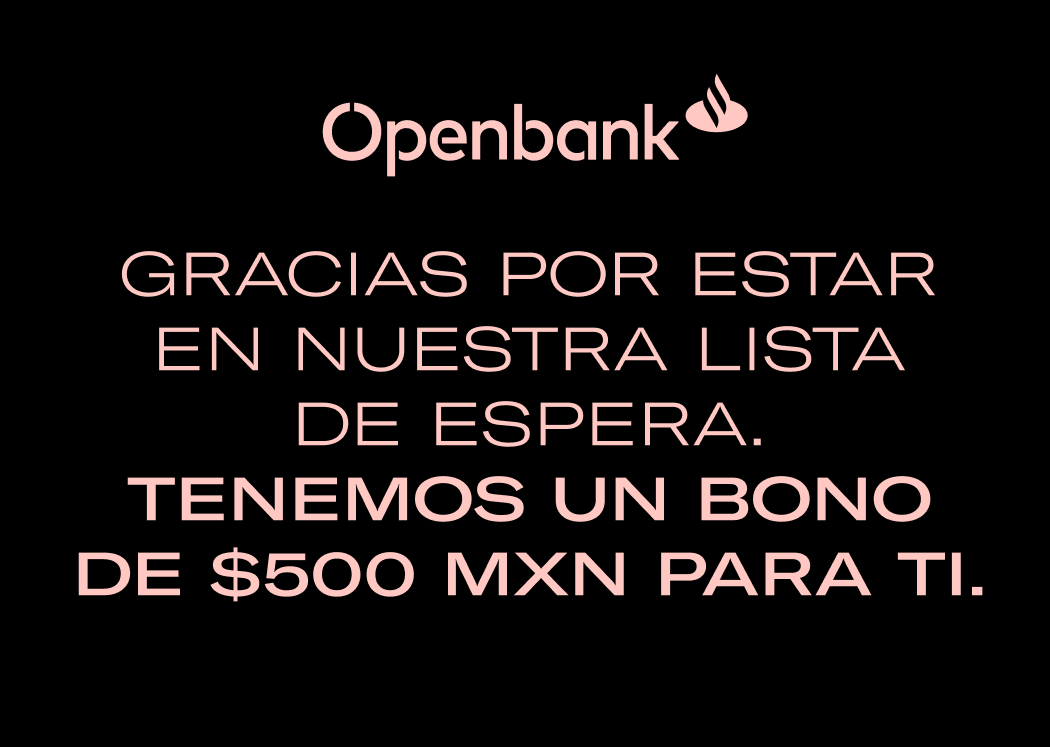
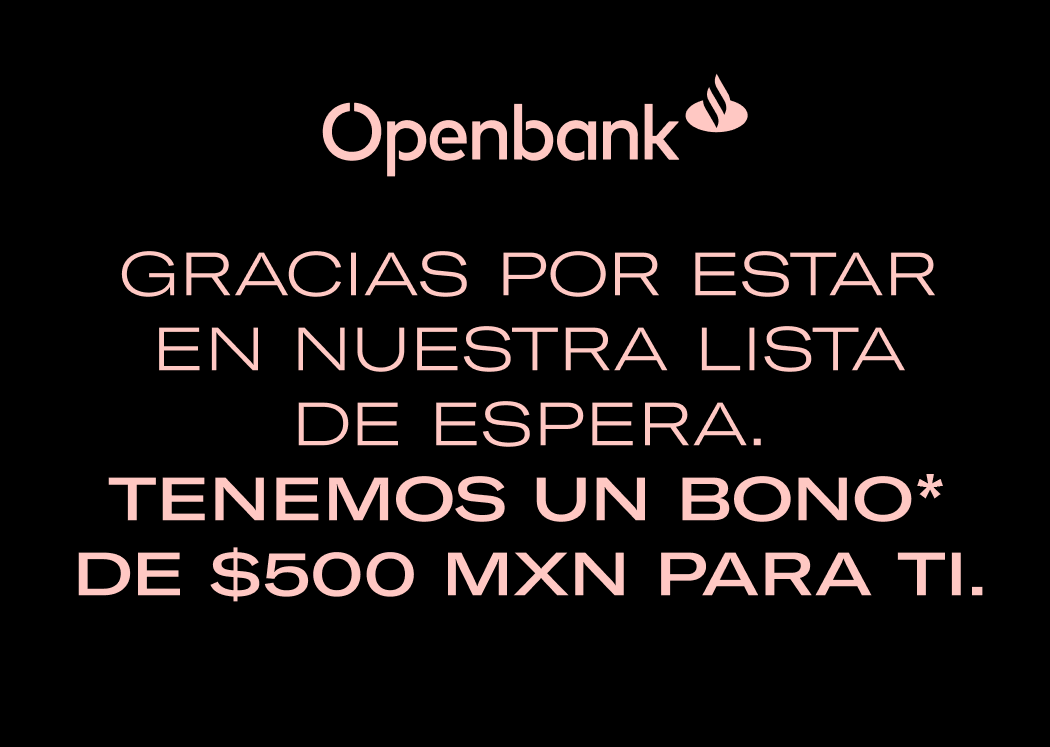
X

Changed region(s): [[0.1219, 0.6158, 0.9143, 0.7082], [0.0914, 0.6158, 0.1219, 0.6466]]

diff --git a/Promociones/Upsell/upsell.html b/Promociones/Upsell/upsell.html
@@ -614,9 +614,10 @@
         </tr>
         <tr>
           <td colspan="3" style="-webkit-text-size-adjust:100%;-ms-text-size-adjust:100%;mso-table-lspace:0pt;mso-table-rspace:0pt;mso-default-height:100%;mso-default-width:100%;mso-space-above:no;mso-space-below:no;margin: 0; padding: 20px; color:#aaaaaa; font-family: 'GT-America-Extended', sans-serif; font-size: 12px; line-height: 18px;text-align: center;">
-            <p style="margin:10px 0 0 0;word-wrap: break-word;text-wrap: wrap; margin-bottom:10px;"><%@ include view='obk_unsubsChannel_MX' %></p>
             <p style="margin:10px 0 0 0;word-wrap: break-word;text-wrap: wrap; margin-bottom:10px;">Si no ves correctamente este email, haz clic <a href="" _tagid="" _label="Mirror Page" _type="mirrorPage" target="_blank" style="-webkit-text-size-adjust:100%;-ms-text-size-adjust:100%;font-weight: bold; color: #aaaaaa; text-decoration: none;">aquí</a>.</p>
             <p style="margin:0;word-wrap: break-word;text-wrap: wrap;margin-bottom:10px;"><a href=https://www.openbank.mx/ target="_blank" style="-webkit-text-size-adjust:100%;-ms-text-size-adjust:100%;font-weight: bold; color: #aaaaaa; text-decoration: none;display:inline-block;">Términos y condiciones</a> | <a href=https://www.openbank.mx/ target="_blank" style="-webkit-text-size-adjust:100%;-ms-text-size-adjust:100%;font-weight: bold; color: #aaaaaa; text-decoration: none;display:inline-block;">Legales</a> | <a href=https://www.openbank.mx/ target="_blank" style="-webkit-text-size-adjust:100%;-ms-text-size-adjust:100%;font-weight: bold; color: #aaaaaa; text-decoration: none;display:inline-block;">Aviso de privacidad</a></p>
+            <p style="margin:10px 0 25px 0!important;word-wrap: break-word;text-wrap: wrap; margin-bottom:10px;"><%@ include view='obk_unsubsChannel_MX' %></p>
+            <p style="margin:0;word-wrap: break-word;text-wrap: wrap;margin-bottom:10px;">*30,000 UDIS (Unidades de Inversión), aproximadamente $250,000 mensuales. Calculado al 6 de febrero de 2025. 1 UDI (Unidad de Inversión) = $8.379108 MXN. Para mayor información consulta www.ipab.org.mx</p>
           </td>
         </tr>
       </table></div></body></html>

diff --git a/Promociones/Cashback_Waiting_list/Cashback_Waiting_list.html b/Promociones/Cashback_Waiting_list/Cashback_Waiting_list.html
@@ -469,7 +469,7 @@
 </head>
 <body leftmargin="0" topmargin="0" marginwidth="0" marginheight="0"><div class="wrapper" dir="ltr" style="max-width: 600px; margin: 0 auto;">
       <div style="display:none;">
-        Así de fácil obtienes bonos con tu tarjeta. &#847;&zwnj;&nbsp;&#847;&zwnj;&nbsp;&#847;&zwnj;&nbsp;&#847;&zwnj;&nbsp;
+        Así de fácil obtienes un bono con tu tarjeta. &#847;&zwnj;&nbsp;&#847;&zwnj;&nbsp;&#847;&zwnj;&nbsp;&#847;&zwnj;&nbsp;
 &#847;&zwnj;&nbsp;&#847;&zwnj;&nbsp;&#847;&zwnj;&nbsp;&#847;&zwnj;&nbsp;&#847;&zwnj;&nbsp;&#847;&zwnj;&nbsp;&#847;&zwnj;&nbsp;&#847;&zwnj;&nbsp;&#847;&zwnj;&nbsp;&#847;&zwnj;&nbsp;&#847;&zwnj;&nbsp;&#847;&zwnj;&nbsp;&#847;&zwnj;&nbsp;&#847;&zwnj;&nbsp;&#847;&zwnj;&nbsp;&#847;&zwnj;&nbsp;&#847;&zwnj;&nbsp;&#847;&zwnj;&nbsp;&#847;&zwnj;&nbsp;&#847;&zwnj;&nbsp;&#847;&zwnj;&nbsp;&#847;&zwnj;&nbsp;&#847;&zwnj;&nbsp;&#847;&zwnj;&nbsp;
 &#847;&zwnj;&nbsp;&#847;&zwnj;&nbsp;&#847;&zwnj;&nbsp;&#847;&zwnj;&nbsp;&#847;&zwnj;&nbsp;&#847;&zwnj;&nbsp;&#847;&zwnj;&nbsp;&#847;&zwnj;&nbsp;&#847;&zwnj;&nbsp;&#847;&zwnj;&nbsp;&#847;&zwnj;&nbsp;&#847;&zwnj;&nbsp;&#847;&zwnj;&nbsp;&#847;&zwnj;&nbsp;&#847;&zwnj;&nbsp;&#847;&zwnj;&nbsp;&#847;&zwnj;&nbsp;&#847;&zwnj;&nbsp;&#847;&zwnj;&nbsp;&#847;&zwnj;&nbsp;&#847;&zwnj;&nbsp;&#847;&zwnj;&nbsp;&#847;&zwnj;&nbsp;&#847;&zwnj;&nbsp;
 &#847;&zwnj;&nbsp;&#847;&zwnj;&nbsp;&#847;&zwnj;&nbsp;&#847;&zwnj;&nbsp;&#847;&zwnj;&nbsp;&#847;&zwnj;&nbsp;&#847;&zwnj;&nbsp;&#847;&zwnj;&nbsp;&#847;&zwnj;&nbsp;&#847;&zwnj;&nbsp;&#847;&zwnj;&nbsp;&#847;&zwnj;&nbsp;&#847;&zwnj;&nbsp;&#847;&zwnj;&nbsp;&#847;&zwnj;&nbsp;&#847;&zwnj;&nbsp;&#847;&zwnj;&nbsp;&#847;&zwnj;&nbsp;&#847;&zwnj;&nbsp;&#847;&zwnj;&nbsp;&#847;&zwnj;&nbsp;&#847;&zwnj;&nbsp;&#847;&zwnj;&nbsp;&#847;&zwnj;&nbsp;
